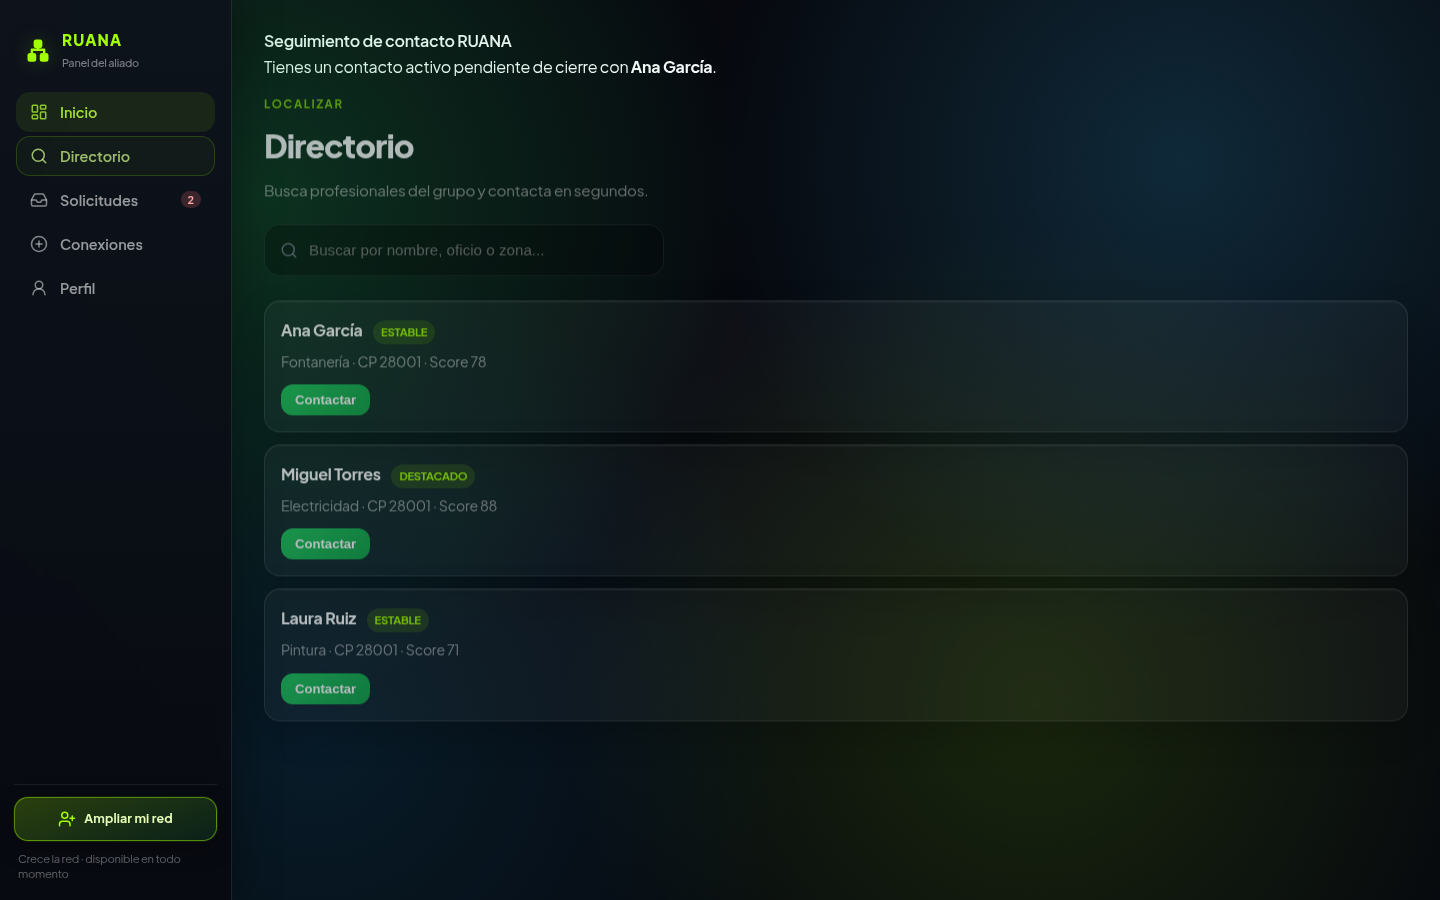
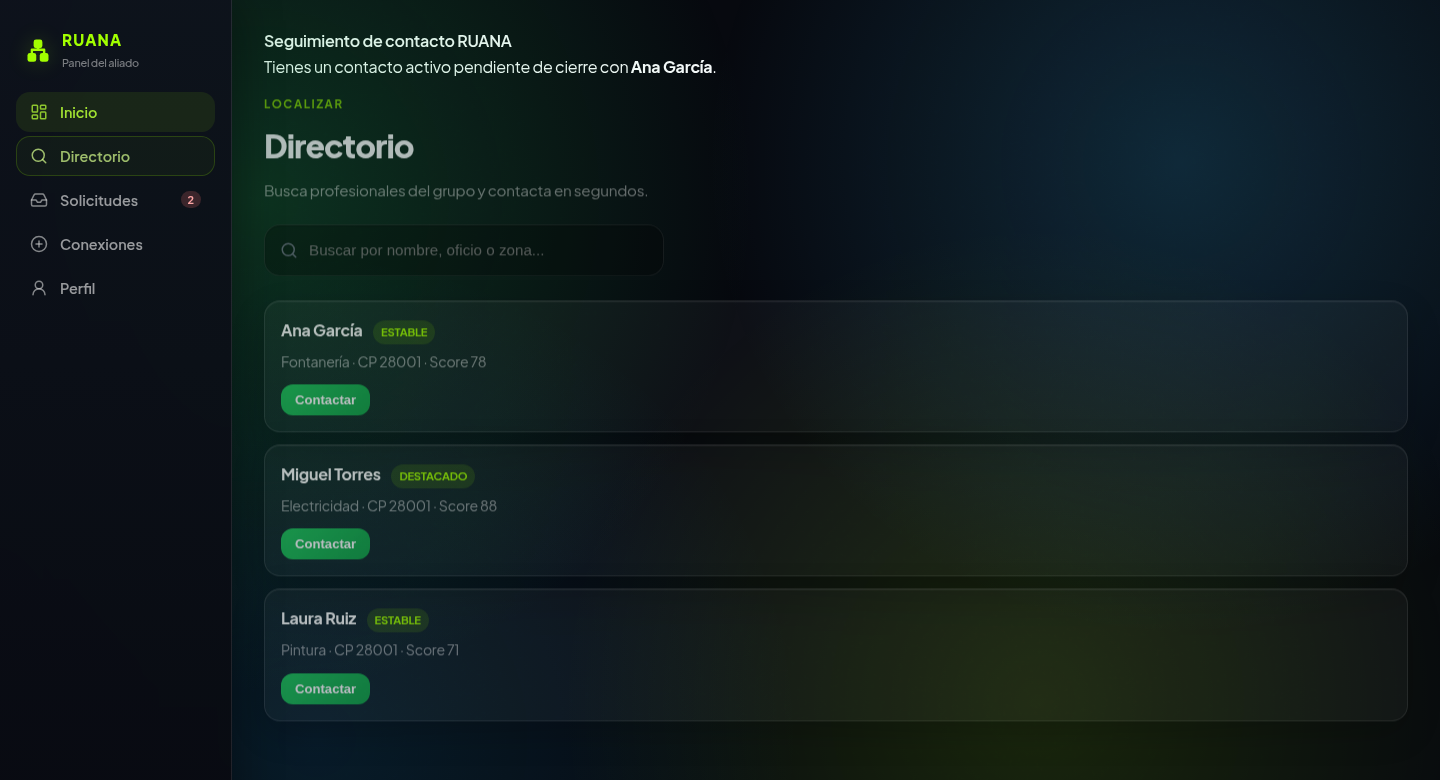
Deja el copy siempre visible y recorta las capturas
Quita la animación que ocultaba las secciones al cargar y recorta el vacío de las capturas para que se vean de golpe el fontanero, el electricista y la pintora.

diff --git a/src/pages/Landing.tsx b/src/pages/Landing.tsx
@@ -1,38 +1,9 @@
-import { motion, type Variants } from 'framer-motion';
 import { ArrowRight } from 'lucide-react';
 import { LandingNavbar, LandingFooter } from '@/components/LandingChrome';
 import { BG, BG_ALT, GREEN } from '@/lib/landingTheme';
 import { RequestAccessButton } from '@/components/RequestAccessButton';
 import { AppShot } from '@/components/AppShot';
 import { FUNDADOR_APP_URL, FUNDADOR_CODE, INAUGURAL_PHASE_ACTIVE } from '@/lib/inauguralPhase';
-
-const fadeUp: Variants = {
-  hidden: { opacity: 0, y: 16 },
-  visible: { opacity: 1, y: 0, transition: { duration: 0.55, ease: [0.16, 1, 0.3, 1] } },
-};
-
-function Section({
-  children,
-  className = '',
-  id,
-}: {
-  children: React.ReactNode;
-  className?: string;
-  id?: string;
-}) {
-  return (
-    <motion.section
-      id={id}
-      initial="hidden"
-      whileInView="visible"
-      viewport={{ once: true, amount: 0.16 }}
-      variants={fadeUp}
-      className={className}
-    >
-      {children}
-    </motion.section>
-  );
-}
 
 function PrimaryCTA({ children = 'Solicitar acceso' }: { children?: React.ReactNode }) {
   return (
@@ -65,7 +36,7 @@ export default function Landing() {
     <div className="min-h-screen text-white" style={{ backgroundColor: BG }}>
       <LandingNavbar />
 
-      <section className="relative overflow-hidden pt-32 md:pt-40 pb-16 md:pb-20">
+      <section className="relative overflow-hidden pt-28 md:pt-36 pb-16 md:pb-20">
         <div
           aria-hidden
           className="absolute inset-0 pointer-events-none"
@@ -75,70 +46,69 @@ export default function Landing() {
           }}
         />
         <div className="relative max-w-3xl mx-auto px-5 md:px-8 text-center">
-          <h1 className="font-extrabold leading-[1.08] tracking-tight text-[34px] md:text-[52px] lg:text-[58px]">
+          <h1 className="font-extrabold leading-[1.12] tracking-tight text-[32px] md:text-[48px] lg:text-[54px]">
             ¿Tienes un negocio u oficio y quieres tener más clientes de tu zona?
           </h1>
-          <p className="mt-7 text-lg md:text-xl text-white/72 leading-relaxed max-w-2xl mx-auto">
+          <p className="mt-6 text-lg md:text-xl text-white/72 leading-relaxed max-w-2xl mx-auto">
             En RUANA, otros profesionales pueden ayudarte a conseguirlos.
           </p>
 
-          <div className="mt-10 flex flex-wrap items-center justify-center gap-6">
+          <div className="mt-9 flex flex-wrap items-center justify-center gap-6">
             <PrimaryCTA />
             <CodeLink />
           </div>
           {INAUGURAL_PHASE_ACTIVE ? (
-            <p className="mt-6 text-sm text-white/42 leading-relaxed">
+            <p className="mt-5 text-sm text-white/42 leading-relaxed">
               Ahora puedes entrar con el código{' '}
-              <span className="font-mono tracking-[0.18em]" style={{ color: GREEN }}>
+              <span className="font-mono font-semibold tracking-wide" style={{ color: GREEN }}>
                 {FUNDADOR_CODE}
               </span>
               .
             </p>
           ) : (
-            <p className="mt-6 text-sm text-white/42">Para profesionales y pequeños negocios de la misma zona.</p>
+            <p className="mt-5 text-sm text-white/42">Para profesionales y pequeños negocios de la misma zona.</p>
           )}
         </div>
 
-        <div className="relative max-w-5xl mx-auto px-5 md:px-8 mt-14 md:mt-16">
+        <div className="relative max-w-5xl mx-auto px-5 md:px-8 mt-12 md:mt-14">
           <AppShot
             src="/landing/07-directorio-red.png"
             alt="Directorio de RUANA: un fontanero, un electricista y una pintora de la misma zona."
             caption="Profesionales de oficios distintos, de la misma zona. Así se ve la red."
-            priority
           />
         </div>
       </section>
 
-      <Section className="py-20 md:py-28" id="que-es">
+      <section className="py-20 md:py-28" id="que-es">
         <div className="max-w-2xl mx-auto px-5 md:px-8">
-          <p className="text-[17px] md:text-[19px] text-white/78 leading-[1.7]">
+          <p className="text-[17px] md:text-[19px] text-white/78 leading-[1.75]">
             Imagínate que eres fontanero y conoces a un electricista, un pintor y un fotógrafo de tu
             zona.
           </p>
-          <p className="mt-6 text-[17px] md:text-[19px] text-white/78 leading-[1.7]">
+          <p className="mt-6 text-[17px] md:text-[19px] text-white/78 leading-[1.75]">
             Cuando ellos necesiten a alguien de confianza para un trabajo, pueden contar contigo.
           </p>
-          <p className="mt-6 text-[17px] md:text-[19px] text-white/78 leading-[1.7]">
+          <p className="mt-6 text-[17px] md:text-[19px] text-white/78 leading-[1.75]">
             Y tú puedes hacer lo mismo con ellos.
           </p>
 
-          <h2 className="mt-14 text-2xl md:text-[34px] font-bold tracking-tight leading-[1.15]">
+          <h2 className="mt-14 text-2xl md:text-[34px] font-bold tracking-tight leading-[1.2]">
             Así funciona RUANA.
           </h2>
-          <p className="mt-5 text-[17px] md:text-[19px] text-white/70 leading-[1.7]">
+          <p className="mt-5 text-[17px] md:text-[19px] text-white/70 leading-[1.75]">
             Profesionales de distintos oficios que se conocen, se ayudan y se pasan oportunidades de
             trabajo.
           </p>
         </div>
-      </Section>
+      </section>
 
-      <Section className="py-20 md:py-28" id="diferencia">
+      <section className="py-8 md:py-12" id="diferencia">
         <div className="max-w-5xl mx-auto px-5 md:px-8">
           <div
             className="rounded-[28px] px-6 py-12 md:px-12 md:py-16"
             style={{ backgroundColor: BG_ALT }}
           >
-            <h2 className="text-2xl md:text-[32px] font-bold tracking-tight leading-[1.15] max-w-xl">
+            <h2 className="text-2xl md:text-[32px] font-bold tracking-tight leading-[1.2] max-w-xl">
               No es un grupo de WhatsApp. Tampoco un directorio.
             </h2>
             <div className="mt-12 grid md:grid-cols-3 gap-10 md:gap-12">
@@ -165,19 +135,19 @@ export default function Landing() {
             </div>
           </div>
         </div>
-      </Section>
+      </section>
 
-      <Section className="py-20 md:py-28" id="confianza">
+      <section className="py-20 md:py-28" id="confianza">
         <div className="max-w-5xl mx-auto px-5 md:px-8 grid lg:grid-cols-2 gap-12 lg:gap-16 items-center">
           <div>
-            <p className="text-[17px] md:text-[19px] text-white/78 leading-[1.7]">
+            <p className="text-[17px] md:text-[19px] text-white/78 leading-[1.75]">
               En tu zona no queremos juntar a cientos de profesionales haciendo lo mismo.
             </p>
-            <p className="mt-6 text-[17px] md:text-[19px] text-white/78 leading-[1.7]">
+            <p className="mt-6 text-[17px] md:text-[19px] text-white/78 leading-[1.75]">
               Queremos construir una red donde los profesionales puedan conocerse y confiar unos en
               otros.
             </p>
-            <p className="mt-12 text-3xl md:text-[42px] font-bold tracking-tight leading-[1.15]">
+            <p className="mt-12 text-3xl md:text-[42px] font-bold tracking-tight leading-[1.2]">
               Menos desconocidos.
               <br />
               <span style={{ color: GREEN }}>Más profesionales de confianza.</span>
@@ -189,11 +159,11 @@ export default function Landing() {
             caption="Oficio, zona y un nombre. Gente que trabaja, no una lista infinita."
           />
         </div>
-      </Section>
+      </section>
 
-      <Section className="py-20 md:py-24">
+      <section className="py-20 md:py-24">
         <div className="max-w-2xl mx-auto px-5 md:px-8">
-          <h2 className="text-3xl md:text-[40px] font-bold tracking-tight leading-[1.12]">
+          <h2 className="text-3xl md:text-[40px] font-bold tracking-tight leading-[1.15]">
             No pagas por estar aquí.
             <br />
             <span style={{ color: GREEN }}>RUANA gana cuando tú ganas.</span>
@@ -203,7 +173,7 @@ export default function Landing() {
             red, hay un apoyo del 12%. Si no hay trabajo, no hay cobro.
           </p>
         </div>
-      </Section>
+      </section>
 
       <section className="relative overflow-hidden py-24 md:py-32" style={{ backgroundColor: BG_ALT }}>
         <div
@@ -214,7 +184,7 @@ export default function Landing() {
           }}
         />
         <div className="relative max-w-2xl mx-auto px-5 md:px-8 text-center">
-          <h2 className="text-3xl md:text-[42px] font-bold tracking-tight leading-[1.12]">
+          <h2 className="text-3xl md:text-[42px] font-bold tracking-tight leading-[1.15]">
             Si tienes un oficio y quieres una red de tu zona, entra.
           </h2>
           <p className="mt-6 text-white/65 text-base md:text-lg leading-relaxed">

diff --git a/src/components/AppShot.tsx b/src/components/AppShot.tsx
@@ -2,12 +2,11 @@ type Props = {
   src: string;
   alt: string;
   caption?: string;
-  priority?: boolean;
   className?: string;
 };
 
 /** Captura real de la app, como apoyo al mensaje. */
-export function AppShot({ src, alt, caption, priority = false, className = '' }: Props) {
+export function AppShot({ src, alt, caption, className = '' }: Props) {
   return (
     <figure className={className}>
       <div
@@ -21,9 +20,9 @@ export function AppShot({ src, alt, caption, priority = false, className = '' }:
           src={src}
           alt={alt}
           width={1440}
-          height={900}
+          height={780}
           className="block w-full h-auto"
-          loading={priority ? 'eager' : 'lazy'}
+          loading="eager"
           decoding="async"
         />
       </div>
